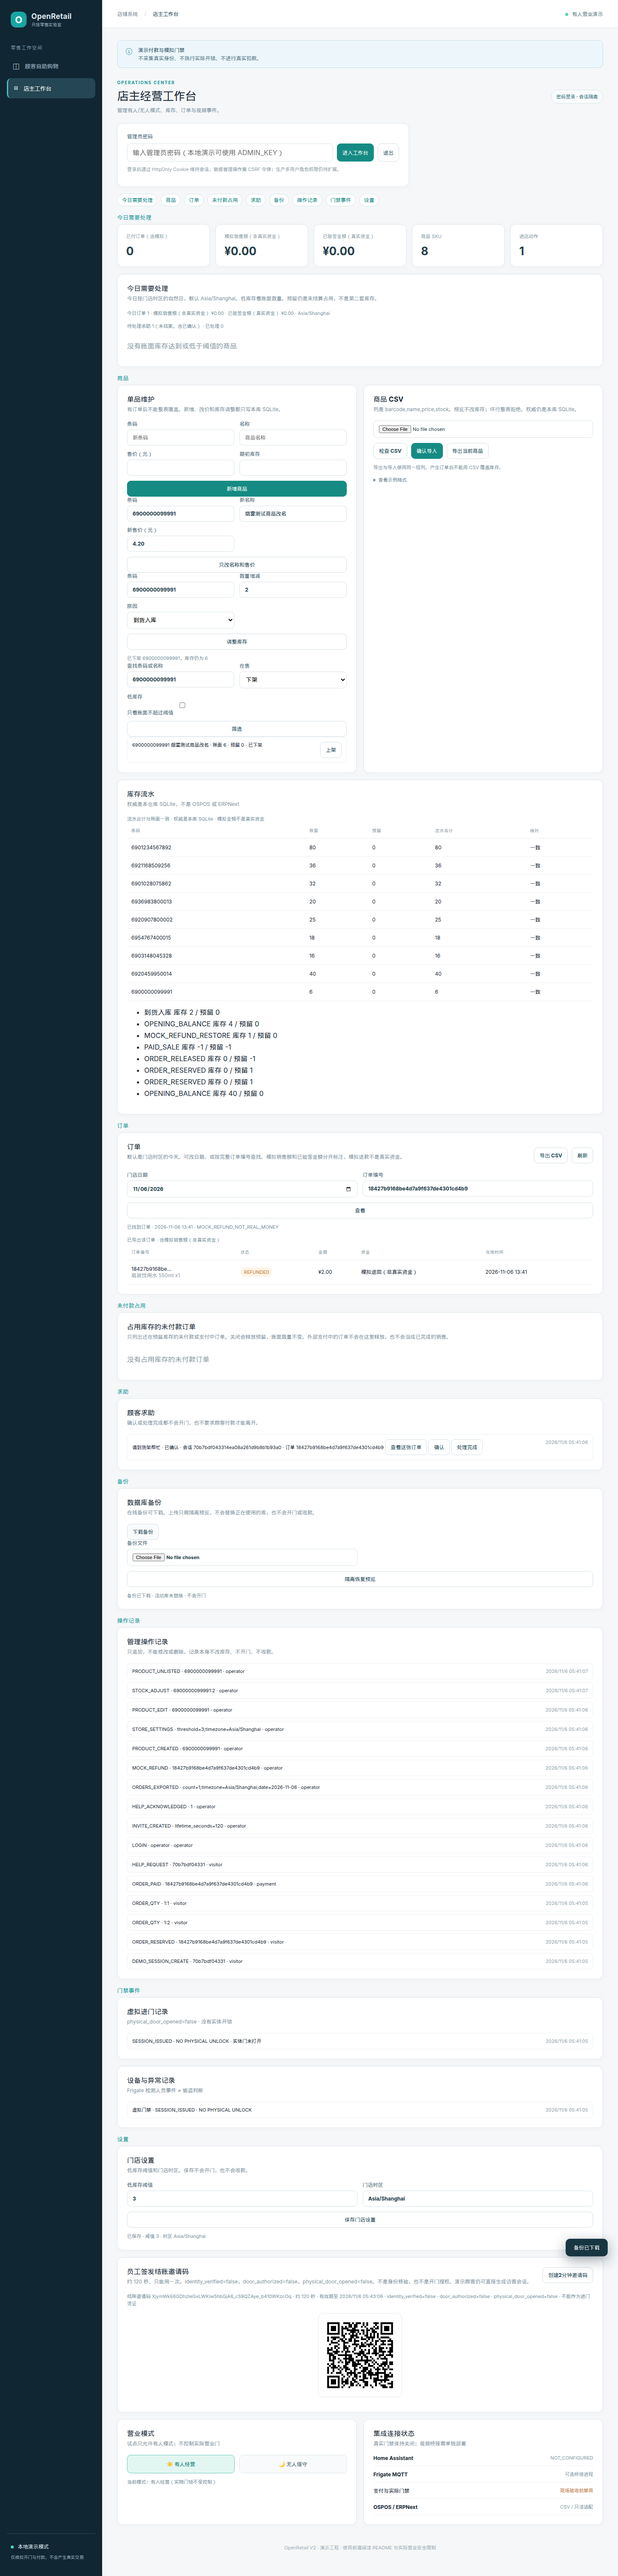
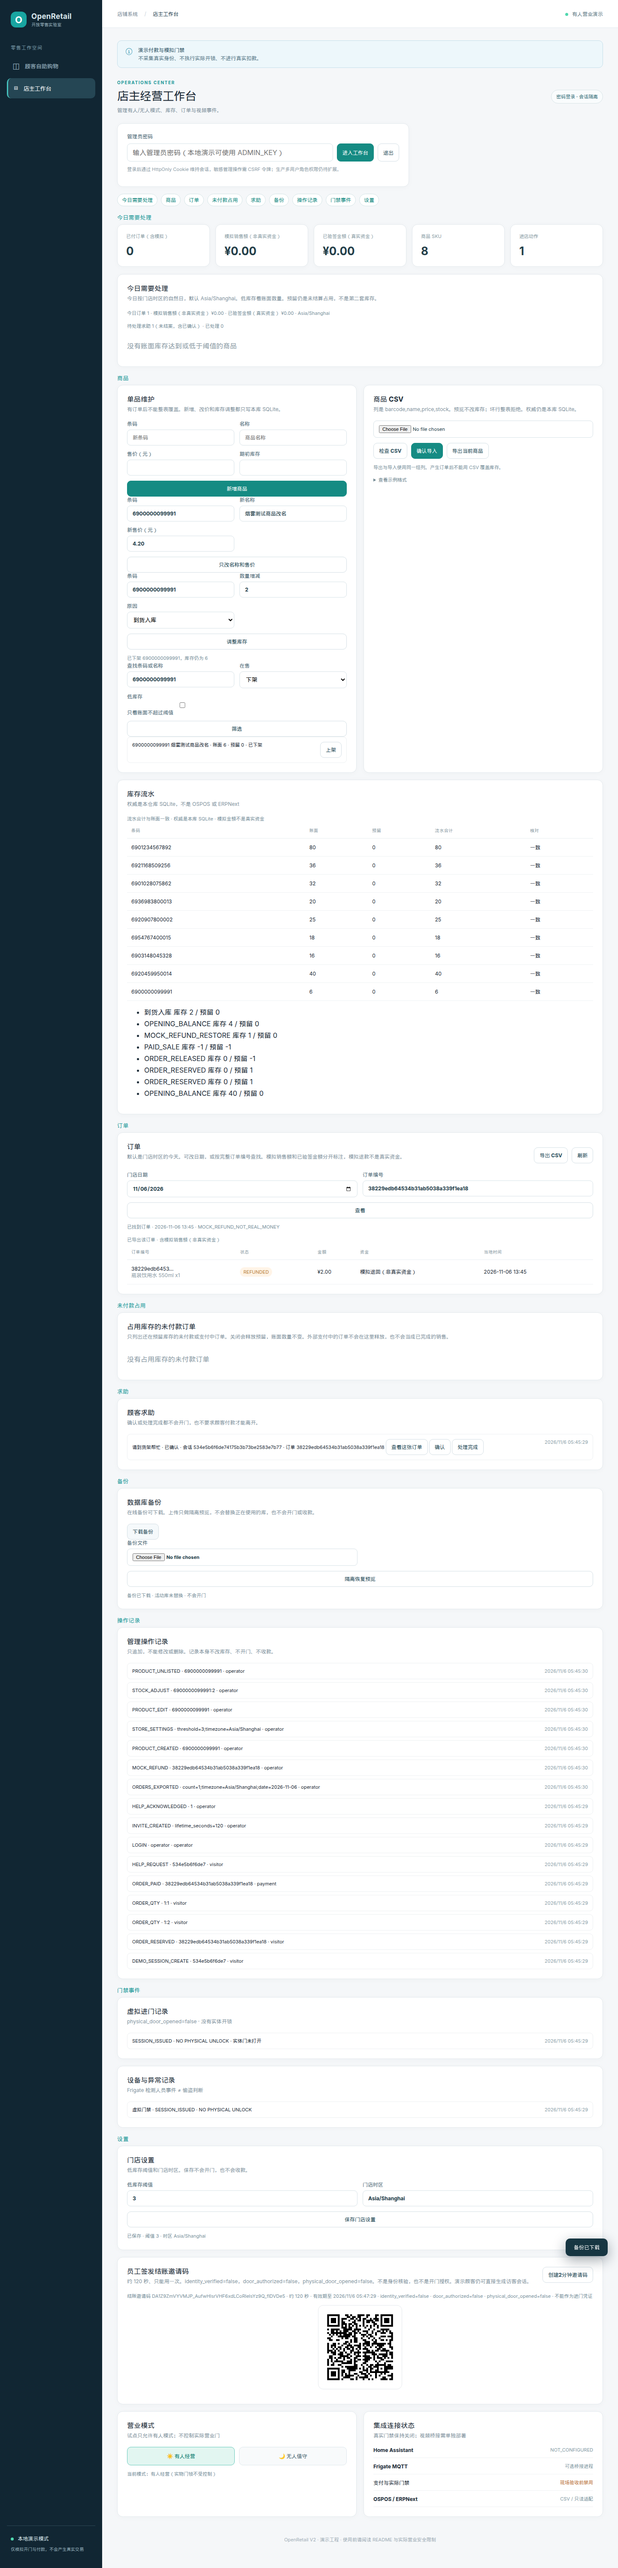
Say when a saved guest session is still valid or has expired.
An expired token is cleared without cancelling the unpaid order or releasing its reservation.

diff --git a/web/app.js b/web/app.js
@@ -1,6 +1,6 @@
 'use strict';
 const $=id=>document.getElementById(id);
-const state={products:[],cart:new Map(),token:sessionStorage.getItem('retail_guest')||'',csrf:'',orderId:'',lastOrderId:'',orderTotal:null,orderLines:null,paying:false,paymentPollId:null,paymentProvider:'MOCK_ONLY',scanner:null,scanTimer:null};
+const state={products:[],cart:new Map(),token:sessionStorage.getItem('retail_guest')||'',csrf:'',orderId:'',lastOrderId:'',orderTotal:null,orderLines:null,paying:false,paymentPollId:null,paymentProvider:'MOCK_ONLY',demo:true,inviteRequired:false,scanner:null,scanTimer:null};
 const money=cents=>'¥'+(Number(cents||0)/100).toFixed(2);
 const esc=s=>String(s??'').replace(/[&<>"']/g,c=>({'&':'&amp;','<':'&lt;','>':'&gt;','"':'&quot;',"'":'&#39;'}[c]));
 const time=t=>t?new Date(t*1000).toLocaleString('zh-CN'):'—';
@@ -11,10 +11,11 @@ async function api(path,{method='GET',body,admin=false,guest=false,form=false}={
  if(body&&!form)headers['Content-Type']='application/json';
  const res=await fetch(path,{method,headers,body:body?(form?body:JSON.stringify(body)):undefined,cache:'no-store',credentials:'same-origin'});
  let data;try{data=await res.json()}catch{data={detail:'请求返回非JSON响应'}}
- if(!res.ok)throw Error(typeof data.detail==='string'?data.detail:JSON.stringify(data.detail||data));
+ if(!res.ok){const detail=typeof data.detail==='string'?data.detail:JSON.stringify(data.detail||data);if(guest&&(detail.includes('访客会话已过期')||detail.includes('访客会话已失效')))forgetGuest(detail);throw Error(detail)}
  return data;
 }
-async function store(){const s=await api('/api/public/store');state.paymentProvider=s.payment;document.querySelector('.notice b').textContent=s.demo?'演示付款与模拟门禁':'有人值守试点 · 实体门禁仍关闭';document.querySelector('.notice p').textContent=s.demo?'不采集真实身份、不执行实际开锁、不进行真实扣款。':'顾客仅凭员工签发邀请码结账；实际付款需官方商户配置并以服务端验签结果为准。无人营业和实体门禁均未开放。';if(!s.demo){$('entry-btn').disabled=true;$('entry-btn').textContent='访客自助开户未开放';$('door-btn').disabled=true;$('entry-result').textContent='请向店员领取结账邀请码，填入下方。这不是身份核验，也不会开门。';$('pay-btn').textContent=s.payment==='WECHAT_NATIVE'?'生成微信收款二维码':'正式支付未配置';$('cart-pay').textContent=s.payment==='WECHAT_NATIVE'?'生成收款码':'创建未付款订单'}else{$('cart-pay').textContent='模拟结算（非真实扣款）'} $('top-mode').textContent=s.store_mode==='UNATTENDED'?'无人值守演示':'有人营业演示';$('shop-mode-chip').textContent=s.store_mode==='UNATTENDED'?'🌙 无人模式':'☀ 有人模式';return s}
+function forgetGuest(message){state.token='';state.orderId='';state.lastOrderId='';state.orderLines=null;state.orderTotal=null;state.cart=new Map();sessionStorage.removeItem('retail_guest');if($('door-btn'))$('door-btn').disabled=true;if($('pay-btn'))$('pay-btn').disabled=true;if($('cancel-order-btn'))$('cancel-order-btn').disabled=true;renderCart();const expired=(message||'').includes('访客会话已过期')||(message||'').includes('访客会话已失效');if(state.inviteRequired){$('entry-btn').disabled=true;$('entry-btn').textContent='访客自助开户未开放';$('entry-result').textContent=(expired?'访客会话已过期。':'')+'请向店员领取结账邀请码。这不是身份核验，也不会开门。';return}$('entry-result').textContent=expired?'访客会话已过期。可以再次使用生成访客会话。':(message||'访客会话已过期。可以再次使用生成访客会话。')}
+async function store(){const s=await api('/api/public/store');state.paymentProvider=s.payment;state.demo=!!s.demo;state.inviteRequired=!!s.invite_required;document.querySelector('.notice b').textContent=s.demo?'演示付款与模拟门禁':'有人值守试点 · 实体门禁仍关闭';document.querySelector('.notice p').textContent=s.demo?'不采集真实身份、不执行实际开锁、不进行真实扣款。':'顾客仅凭员工签发邀请码结账；实际付款需官方商户配置并以服务端验签结果为准。无人营业和实体门禁均未开放。';if(!s.demo){$('entry-btn').disabled=true;$('entry-btn').textContent='访客自助开户未开放';$('door-btn').disabled=true;$('entry-result').textContent='请向店员领取结账邀请码，填入下方。这不是身份核验，也不会开门。';$('pay-btn').textContent=s.payment==='WECHAT_NATIVE'?'生成微信收款二维码':'正式支付未配置';$('cart-pay').textContent=s.payment==='WECHAT_NATIVE'?'生成收款码':'创建未付款订单'}else{$('cart-pay').textContent='模拟结算（非真实扣款）'} $('top-mode').textContent=s.store_mode==='UNATTENDED'?'无人值守演示':'有人营业演示';$('shop-mode-chip').textContent=s.store_mode==='UNATTENDED'?'🌙 无人模式':'☀ 有人模式';return s}
 async function loadProducts(){state.products=await api('/api/products');renderProducts();renderCart()}
 const pict=['▣','◈','◉','▤','▥','◎','◇','▧'];
 function renderProducts(){$('catalog').innerHTML=state.products.map((p,i)=>`<div class="product-card"><div class="product-icon">${pict[i%pict.length]}</div><div class="product-info"><b title="${esc(p.name)}">${esc(p.name)}</b><small>${esc(p.barcode)} · 可售 ${p.available_stock}</small><span class="price">${money(p.price_cents)}</span></div><button class="add-btn" data-add="${p.id}" ${p.available_stock<=0?'disabled':''} aria-label="添加 ${esc(p.name)}">+</button></div>`).join('')||'<p class="muted">没有商品</p>'}
@@ -44,7 +45,8 @@ function showReceipt(order){const card=$('receipt');if(!card)return;if(!order||!
 function showPay(order){const box=$('payment-result');const view=describePayment(order);box.textContent=view.text;box.className='inline-note pay-banner'+(view.cls?' '+view.cls:'');showReceipt(order)}
 async function refreshMine(){if(!state.token){$('my-orders').innerHTML='<p class="muted">还没有订单</p>';return}const rows=await api('/api/orders',{guest:true});$('my-orders').innerHTML=rows.length?rows.map(o=>{const view=describePayment(o);return `<article class="${esc(view.cls)}"><b>${esc(view.text.split('·')[0].trim())}</b><div class="receipt-id">${esc(o.id)}</div><div>${esc(itemSummary(o))}</div><div>${money(o.total_cents)} · ${time(o.created_at)}</div><small>${esc(moneyNote(o))} · verified=${o.verified}</small></article>`}).join(''):'<p class="muted">还没有订单</p>';const open=rows.find(o=>o.status==='PENDING'||o.status==='PAYMENT_PENDING');if(open){rememberOrder(open);showPay(open);renderCart();return}if(rows[0]){state.lastOrderId=rows[0].id;showPay(rows[0])}}
 async function reloadSessionView(){state.cart=new Map();state.orderId='';state.orderLines=null;state.orderTotal=null;state.lastOrderId='';renderCart();if($('receipt'))$('receipt').hidden=true;$('payment-result').textContent='尚未创建订单';await refreshMine()}
-async function showEntryStatus(){const status=await api('/api/entry/status',{guest:true});const latest=status.events[0];$('entry-status').textContent='实体门未打开 · physical_door_opened=false · 虚拟事件 '+(latest?latest.result+' / '+latest.detail:'无')}
+async function showEntryStatus(){const status=await api('/api/entry/status',{guest:true});const latest=status.events[0];$('entry-status').textContent='实体门未打开 · physical_door_opened=false · 虚拟事件 '+(latest?latest.result+' / '+latest.detail:'无');return status}
+async function resumeSavedSession(){if(!state.token)return;try{const status=await showEntryStatus();$('door-btn').disabled=false;$('entry-result').textContent='已恢复当前浏览器的访客会话，有效期至 '+(status.expires_local||'')+(status.expires_timezone?' '+status.expires_timezone:'');await refreshMine()}catch(e){if(!state.token)return;forgetGuest(e.message)}}
 async function createOrder(){if(!state.token)throw Error('先创建访客会话');const req={request_id:(crypto.randomUUID?.()||('demo-'+Date.now()+'-'+Math.random())),lines:[...state.cart].map(([product_id,quantity])=>({product_id,quantity}))};let r;try{r=await api('/api/orders',{method:'POST',body:req,guest:true})}catch(e){if((e.message||'').includes('已有待付款订单'))await refreshMine();throw e}rememberOrder(r);$('payment-qr').hidden=true;showPay(r);renderCart();await refreshMine();return r}
 async function confirmMock(){const r=await api('/api/payments/mock-confirm',{method:'POST',body:{order_id:state.orderId},guest:true});showPay(r);if(r.status==='PAID'){state.lastOrderId=r.id||state.orderId;state.cart.clear();state.orderId='';state.orderTotal=null;state.orderLines=null;$('cancel-order-btn').disabled=true;$('pay-btn').disabled=true;await loadProducts()}await refreshMine();return r}
 function fundLabel(order){if(order.status==='PAID'&&order.provider==='MOCK_NOT_REAL_MONEY')return '模拟销售额';if(Number(order.verified)===1)return '已验签真实资金';if(order.status==='REFUNDED'&&order.provider==='MOCK_NOT_REAL_MONEY')return '模拟退回';return '未收款'}
@@ -131,6 +133,5 @@ $('adjust-form').onsubmit=e=>{e.preventDefault();run(async()=>{const f=new FormD
 async function uploadCsv(dry){const file=$('csv-file').files?.[0];if(!file)throw Error('请先选择 CSV 文件');if(!dry&&!confirm('仅允许首次建账导入；已有订单将拒绝覆盖库存。确定继续？'))return;const data=new FormData();data.append('file',file);const r=await api('/api/admin/import-products?dry_run='+String(dry),{admin:true,method:'POST',form:true,body:data});$('csv-status').textContent=dry?'检查通过，共 '+r.count+' 条：'+r.preview.map(x=>x.name).slice(0,4).join('、'):'已导入 '+r.count+' 条商品。注意不会自动同步到 OSPOS。';if(!dry){await loadProducts();await adminRefresh()}toast(dry?'CSV 检查通过':'CSV 已导入')}
 $('csv-preview').onclick=()=>run(()=>uploadCsv(true));$('csv-import').onclick=()=>run(()=>uploadCsv(false));
 $('csv-export').onclick=()=>run(async()=>{const res=await fetch('/api/admin/export-products',{credentials:'same-origin',cache:'no-store'});if(!res.ok)throw Error('导出失败');const text=await res.text();const blob=new Blob([text],{type:'text/csv'});const link=document.createElement('a');link.href=URL.createObjectURL(blob);link.download='openretail-products.csv';link.click();URL.revokeObjectURL(link.href);if(!text.startsWith('barcode,name,price,stock'))throw Error('导出列不正确');$('csv-status').textContent='已导出当前 SQLite 商品，列与导入相同。';toast('商品 CSV 已导出')});
-if(state.token){$('door-btn').disabled=false;$('entry-result').textContent='已恢复当前浏览器的访客会话（可能已过期）';run(async()=>{await showEntryStatus();await refreshMine()})}
 // 管理员密码和 CSRF 令牌仅存在内存中；刷新页面后需重新登录。
-run(async()=>{await store();await loadProducts()});
+run(async()=>{await store();await loadProducts();await resumeSavedSession()});

diff --git a/tests/test_guest_session_expiry.py b/tests/test_guest_session_expiry.py
@@ -1,0 +1,59 @@
+"""An expired guest token is rejected without cancelling the unpaid order."""
+from pathlib import Path
+from fastapi.testclient import TestClient
+from openretail.config import Settings
+from openretail.main import create_app
+from openretail.security import password_hash
+from conftest import visitor
+
+
+def test_expired_guest_token_keeps_the_unpaid_hold(client):
+    guest=visitor(client)
+    product=client.get('/api/products').json()[0]
+    created=client.post('/api/orders',headers=guest,json={'request_id':'guest-expiry-hold-01',
+        'lines':[{'product_id':product['id'],'quantity':1}]})
+    assert created.status_code==201
+    order=created.json()
+    with client.app.state.db.connect() as conn:
+        stock=conn.execute('SELECT stock,reserved_stock FROM products WHERE id=?',(product['id'],)).fetchone()
+        status=conn.execute('SELECT status FROM orders WHERE id=?',(order['id'],)).fetchone()['status']
+    assert status=='PENDING' and stock['reserved_stock']>=1
+    with client.app.state.db.tx() as conn:
+        conn.execute('UPDATE guest_sessions SET expires_at=0 WHERE id=?',(client.get('/api/entry/status',headers=guest).json()['session_id'],))
+    denied=client.get('/api/orders',headers=guest)
+    assert denied.status_code==401 and denied.json()['detail']=='访客会话已过期'
+    assert client.get('/api/entry/status',headers=guest).json()['detail']=='访客会话已过期'
+    with client.app.state.db.connect() as conn:
+        now=conn.execute('SELECT stock,reserved_stock FROM products WHERE id=?',(product['id'],)).fetchone()
+        still=conn.execute('SELECT status,expires_at,created_at FROM orders WHERE id=?',(order['id'],)).fetchone()
+    assert now['stock']==stock['stock'] and now['reserved_stock']==stock['reserved_stock']
+    assert still['status']=='PENDING' and still['expires_at']==still['created_at']+900
+    fresh=client.post('/api/entry')
+    assert fresh.status_code==200 and fresh.json()['identity_verified'] is False
+    assert fresh.json()['physical_door_opened'] is False
+    live=client.get('/api/entry/status',headers={'Authorization':'Bearer '+fresh.json()['guest_token']})
+    assert live.status_code==200
+    body=live.json()
+    assert body['expires_local'] and body['expires_timezone']=='Asia/Shanghai'
+    assert body['identity_verified'] is False and body['door_authorized'] is False
+    assert body['physical_door_opened'] is False
+    store=client.get('/api/public/store').json()
+    assert store['demo'] is True and store['invite_required'] is False
+    page=Path('web/app.js').read_text(encoding='utf-8')
+    assert '访客会话已过期。可以再次使用生成访客会话。' in page
+    assert '请向店员领取结账邀请码。这不是身份核验，也不会开门。' in page
+    assert '可能已过期' not in page
+
+
+def test_non_demo_store_still_requires_an_invite(tmp_path):
+    cfg=Settings(db_path=str(Path(tmp_path)/'pilot.sqlite3'),app_mode='pilot',
+        admin_key='A'*40,integration_key='I'*40,app_secret='S'*40,
+        admin_password_hash=password_hash('StrongOperatorPassphrase2026'),
+        trusted_proxy_tls=True,public_base_url='https://pilot.example.invalid',mock_payments=False)
+    with TestClient(create_app(cfg),base_url='https://pilot.example.invalid') as pilot:
+        store=pilot.get('/api/public/store').json()
+        assert store['invite_required'] is True and store['demo'] is False
+        assert store['identity_verified'] is False and store['door_authorized'] is False
+        denied=pilot.post('/api/entry')
+        assert denied.status_code==503 and '请向店员领取结账邀请码' in denied.json()['detail']
+        assert '不会开门' in denied.json()['detail']

diff --git a/openretail/main.py b/openretail/main.py
@@ -250,7 +250,8 @@ def create_app(settings:Settings|None=None)->FastAPI:
         with db.connect() as c:
             row=c.execute('SELECT id,expires_at FROM guest_sessions WHERE token_hash=?',
                           (digest(authorization[7:]),)).fetchone()
-        if not row or row['expires_at']<=now():abort(401,'访客会话已失效')
+        if not row:abort(401,'访客会话已失效')
+        if row['expires_at']<=now():abort(401,'访客会话已过期')
         return row['id']
 
     def payment_facts(c,order_id,status):
@@ -290,7 +291,11 @@ def create_app(settings:Settings|None=None)->FastAPI:
         events=[asdict(r) for r in c.execute(
             '''SELECT id,result,provider,detail,created_at FROM door_events
                WHERE session_id=? ORDER BY id DESC LIMIT 20''',(session_id,))]
-        return {'session_id':session_id,'expires_at':row['expires_at'] if row else None,
+        zone_name,zone=store_zone(c)
+        expires_at=row['expires_at'] if row else None
+        return {'session_id':session_id,'expires_at':expires_at,
+                'expires_local':format_local(expires_at,zone) if expires_at is not None else '',
+                'expires_timezone':zone_name,
                 'identity_verified':False,'door_authorized':False,'physical_door_opened':False,
                 'virtual_only':True,'events':events}
 
@@ -464,7 +469,8 @@ def create_app(settings:Settings|None=None)->FastAPI:
         with db.connect() as c:
             row=c.execute('SELECT id,expires_at FROM guest_sessions WHERE token_hash=?',
                           (digest(authorization[7:]),)).fetchone()
-        if not row or row['expires_at']<=now():abort(401,'访客会话已失效')
+        if not row:abort(401,'访客会话已失效')
+        if row['expires_at']<=now():abort(401,'访客会话已过期')
         return row['id']
 
     @app.post('/api/help',status_code=201)

diff --git a/docs/PROJECT_STATUS.md b/docs/PROJECT_STATUS.md
@@ -4,6 +4,18 @@
 
 完全无人值守经营仍是 **NOT_APPROVED**。示例配置里的真实支付和实体开锁都是关闭的。
 
+## 本增量（访客会话过期提示）
+
+已在代码和测试里做到，并在本机复跑：
+
+- 保存的访客令牌如果过期，接口返回「访客会话已过期」。页面清掉这个令牌。演示里提示可以再次使用「生成访客会话」，不会自动新建会话。非演示门店提示向店员领取结账邀请码，并写明这不是身份核验，也不会开门，也不会重新打开「生成访客会话」。
+- 令牌仍然有效时，页面写明已恢复，并显示门店时区的到期时间，不再写「可能已过期」。
+- 访客令牌过期不会取消未付款订单，也不改账面或预留。900 秒预留和外部支付中的释放规则没有改。
+
+`/tmp/openretail-venv/bin/python -m pytest -q`（工作目录 `/workspace`，Python 3.12.3）：**73 passed，1 warning，7.83s，退出码 0**。警告仍是 Starlette 的 `httpx` TestClient 弃用提示。73 = 上一轮 71 + 本增量 2。
+
+`scripts/ui_bridge_smoke.py` 在去掉密钥环境变量后退出码 0。顾客没有领取邀请码，仍用「生成访客会话」完成 ¥2.00 模拟支付，并含「模拟支付成功 · 非真实资金 · 已扣库存」。会话过期由 pytest 核对，没有等待真实的会话时长。390 宽 `scrollWidth` 390，1440 宽 `scrollWidth` 1440，`pageerror` 为空。这仍是 Chrome 到 TestClient 的桥，不是真机，也不是真实收款。
+
 ## 本增量（同一会话只保留一张未付款订单）
 
 已在代码和测试里做到，并在本机复跑：
